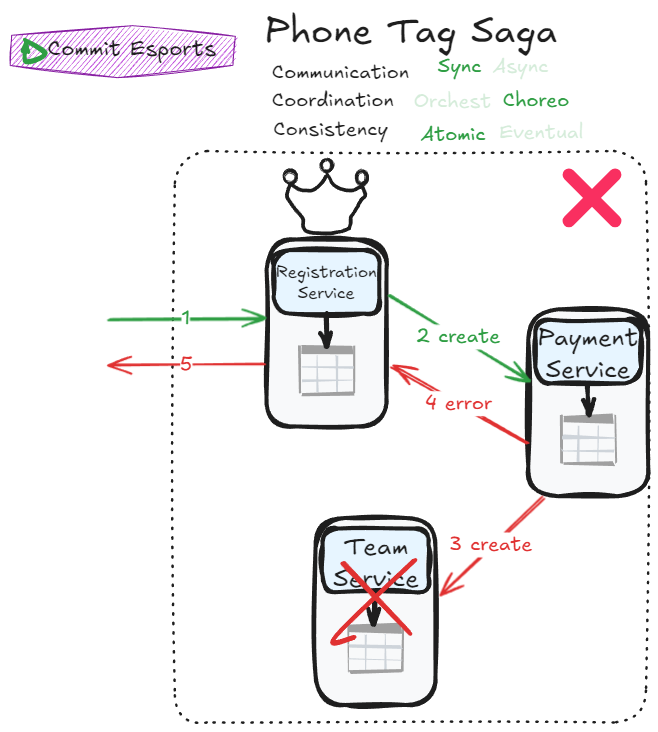
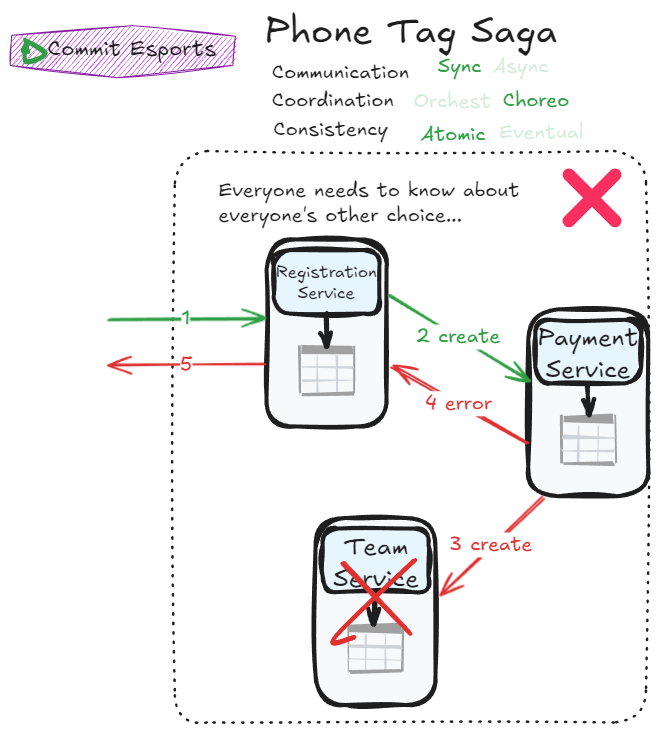
Corrected diagrams and consensus thoughts

Changed region(s): [[0.3343, 0.2104, 0.7903, 0.3306]]

diff --git a/src/data/posts/024-distributed-transactions-03.md b/src/data/posts/024-distributed-transactions-03.md
@@ -228,9 +228,18 @@ The Fairy Tale Saga works well—why not decouple services further by switching 
 > 
 > Response immediately and confirmation later:
 > ![Parallel Saga Success Immediate](${baseUrl}blog-images/distributed-transactions/sagaParallelSuccess2.png)
+>
+> **Note**: Actually, the possibility to answer to the user request immediately or later on asynchronously can be implemented with ALL asynchronous sagas. For the sake of simplicity, we only show this distinction with this particular saga.
 
 > [!failure]- Parallel Saga Error Handling
+> Response after all services confirmed the transaction:
+> 
 > ![Parallel Saga Error Handling](${baseUrl}blog-images/distributed-transactions/sagaParallelFailure.png)
+> 
+> Response immediately and failure notification later:
+> ![Parallel Saga Failure asap](${baseUrl}blog-images/distributed-transactions/sagaParallelFailure2.png)
+>
+> **Note**: Again, this distinction is actually possible with all asynchronous sagas.
 
 Error management flows become more complex, but this saga achieves impressive responsiveness. You can immediately confirm to users that their request is being orchestrated (returning a "pending" status) and notify them later when processing completes. The asynchronous nature allows the orchestrator to contact all participants without blocking, potentially making the overall process faster.
 
@@ -269,9 +278,29 @@ Can we achieve atomicity without an orchestrator? Let's try:
 > [!failure]- Phone Tag Saga Error Handling
 > ![Phone Tag Saga Error Handling](${baseUrl}blog-images/distributed-transactions/sagaPhoneTagFailure.png)
 
-This pattern resembles an Epic Saga with many back-and-forth calls. Someone still needs to coordinate the transaction to ensure everyone agrees. So why would anyone implement this strategy?
+This pattern forces many back-and-forth calls between each participants. Without a clear orchestrator, every participant should know about every other participants' decision to know if they can commit or should abort. This is counterproductive: we try to achieve a better autonomy using choreography but end up in a coupled system anyway with a more complex workflow management. Is this pattern just unusable?
 
-The answer: **fault tolerance**. If the coordinating service fails, other services can elect a new coordinator to complete the transaction using **consensus algorithms** (like Raft or Paxos). You pay for additional complexity but gain resilience against coordinator failure.
+> [!question]- The hidden mediator
+> Not mentioned in Mark Richard and Neal Ford's book, it can be interesting to push the thoughts a bit further. What if we have a disguised mediator: one of the service acts as a mediator but this mediator's role could be anyone?
+> 
+> A successful scenario could be:
+> ![Phone Tag Saga Consensus Success](${baseUrl}blog-images/distributed-transactions/sagaPhoneTagSuccess2.png)
+> 
+> And error management could be:
+> ![Phone Tag Saga Consensus Error Handling](${baseUrl}blog-images/distributed-transactions/sagaPhoneTagFailure2.png)
+>
+> We can already observe a small win: flows are simpler. Coupling is more explicit, which paradoxically reduces slightly actual coupling: payment service no longer needs to know team service's existence and vice-versa.
+> 
+> Still, we're just imitating an Epic saga transaction so far. Benefits become clearer when evaluating what could happen if the mediator goes down in the middle of the transaction:
+> 
+> ![Epic Saga Crash](${baseUrl}blog-images/distributed-transactions/sagaEpicCrash.png)
+> In the Epic saga, even if everyone agreed to the transaction, we are stuck until the mediator is back and finishes the transaction. Observe what a Phone Tag saga can unlock:
+>
+> ![Phone Tag Saga Crash](${baseUrl}blog-images/distributed-transactions/sagaPhoneTagCrash.png)
+>
+> So what is the clear win here?
+> 
+> The answer: **fault tolerance**. If the coordinating service fails, other services can elect a new coordinator to complete the transaction using **consensus algorithms** (like Raft or Paxos). You pay for additional complexity but gain resilience against coordinator failure.
 
 > [!tip]- Tradeoffs
 > 
@@ -280,7 +309,7 @@ The answer: **fault tolerance**. If the coordinating service fails, other servic
 > - Better fault tolerance than centralized orchestration
 > 
 > **Cons:**
-> - **Hidden complexity:** Usually requires a "hidden" coordinator role, creating coupling despite the choreography appearance
+> - **Hidden complexity:** Usually requires a "hidden" coordinator role, creating coupling despite the choreography appearance. Or worse, you just assume every participant has to know about each other's vote to complete the transaction.
 > - **Distributed coordination burden:** All services share responsibility for ensuring global atomicity, significantly increasing implementation complexity
 
 > [!danger] Reality check
@@ -323,7 +352,7 @@ In practice, this often results in tightly coupled code disguised as choreograph
 >   - But asynchronous nature tries to decouple that tracking
 >   - Multiple transactions can be managed concurrently, potentially out of order
 >   - The multiplicity and complexity of error conditions are overwhelming
-> - **Terrible responsiveness:** Despite async communication, atomic requirements create bottlenecks
+> - **Can yield terrible responsiveness:** Despite async communication, atomic requirements create bottlenecks.
 
 > [!danger] Reality check
 > Don't implement this pattern. If you think you need it, reconsider your architecture.
@@ -431,10 +460,7 @@ We've journeyed from monolithic databases to microservices data ownership. We've
 
 The *Commit Esports* team now has the tools they need. They understand that:
 
-1. **Data ownership matters**: Clear ownership prevents conflicts and enables independent scaling
-2. **Access patterns are contextual**: Different use cases demand different strategies
-3. **Sagas aren't one-size-fits-all**: The right saga pattern depends on your specific requirements
-4. **Tradeoffs are inevitable**: Every architectural decision trades one property for another
+![Enabling Sagas,1. **Data ownership matters**: Clear ownership prevents conflicts and enables independent scaling2. **Access patterns are contextual**: Different use cases demand different strategies3. **Sagas aren't one-size-fits-all**: The right saga pattern depends on your specific requirements4. **Tradeoffs are inevitable**: Every architectural decision trades one property for another](${baseUrl}blog-images/distributed-transactions/enablingSagas.png)
 
 Most importantly, they've learned that distributed systems aren't about finding the "perfect" solution. They're about making informed tradeoffs that align with your business needs, your team's capabilities, and your system's constraints.
 
